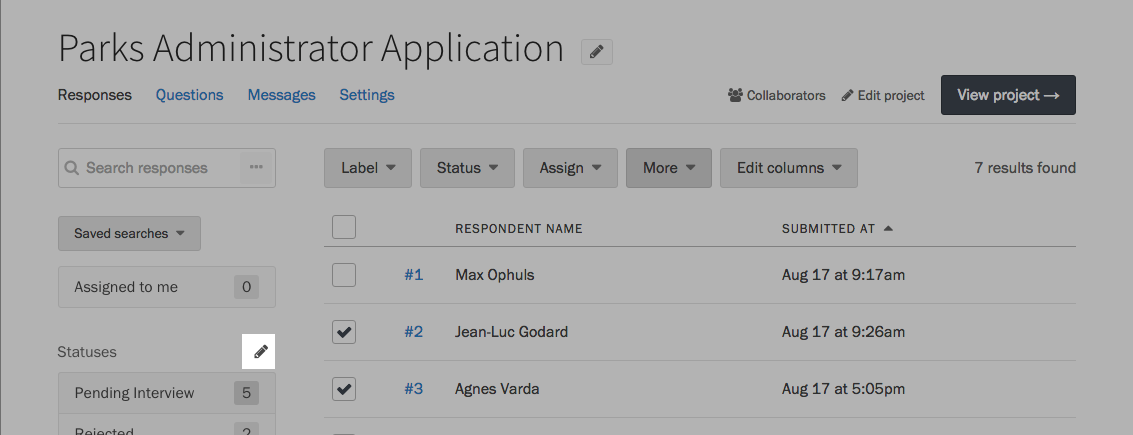
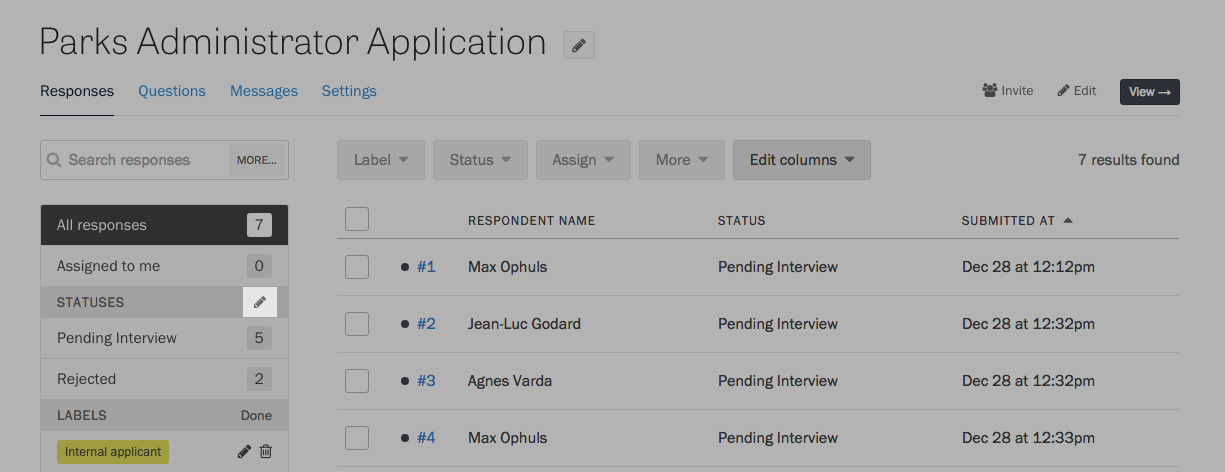
Update screenshots

diff --git a/contents/articles/screendoor/responses/using_statuses.md b/contents/articles/screendoor/responses/using_statuses.md
@@ -19,17 +19,25 @@ From your project's Responses page, press the Edit button just above the list of
 
 To add a status, type its name in the &ldquo;Add a status&rdquo; field and press the Add button to save.
 
+![Field to add a status.](../images/status_2.png)
+
 Press the Edit button to the right of a status to rename it. Be sure to press the Save button to save your changes.
+
+![Button to edit a status.](../images/status_3.png)
 
 To reorder the list, drag the icon on the left side of a status. The first status in the list will be treated as the default. It will be automatically applied to new responses.
 
+![Reordering a status.](../images/reorder_status.gif)
+
 Press the Delete button to the right of a status to remove it. Any responses which had that status will be reassigned to the first status in the list.
+
+![Button to delete a status.](../images/status_4.png)
 
 ### Changing the status of a response
 
 From your project's Responses page, select some responses using the checkboxes on the left side of the table. Press the Status button above the table, and select the new status from the dropdown. Click anywhere outside the dropdown to apply your changes.
 
-![Changing the status from the Responses page.](../images/status_3.png)
+![Changing the status from the Responses page.](../images/status_5.png)
 
 To speed up this process a bit, you can use the search bar at the top of the dropdown to find the exact status you're looking for.
 
@@ -37,7 +45,7 @@ To speed up this process a bit, you can use the search bar at the top of the dro
 
 You can also change a response's status while you are reading it. First, click on a response in the table to view it. Then, in the sidebar, under &ldquo;Status,&rdquo; select a new status from the dropdown.
 
-![Changing the status of one response.](../images/status_4.png)
+![Changing the status of one response.](../images/status_6.png)
 
 ---
 
